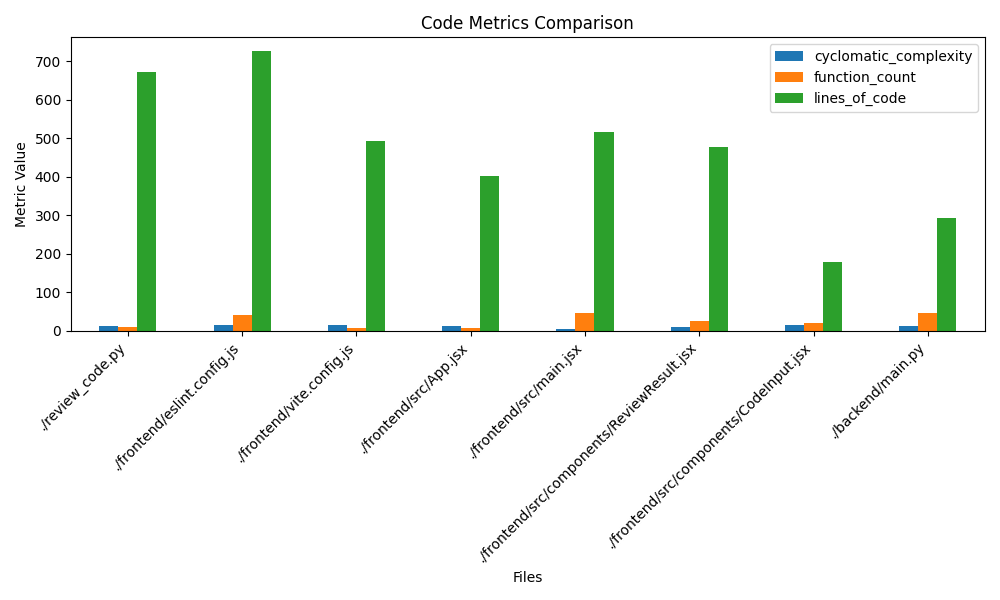
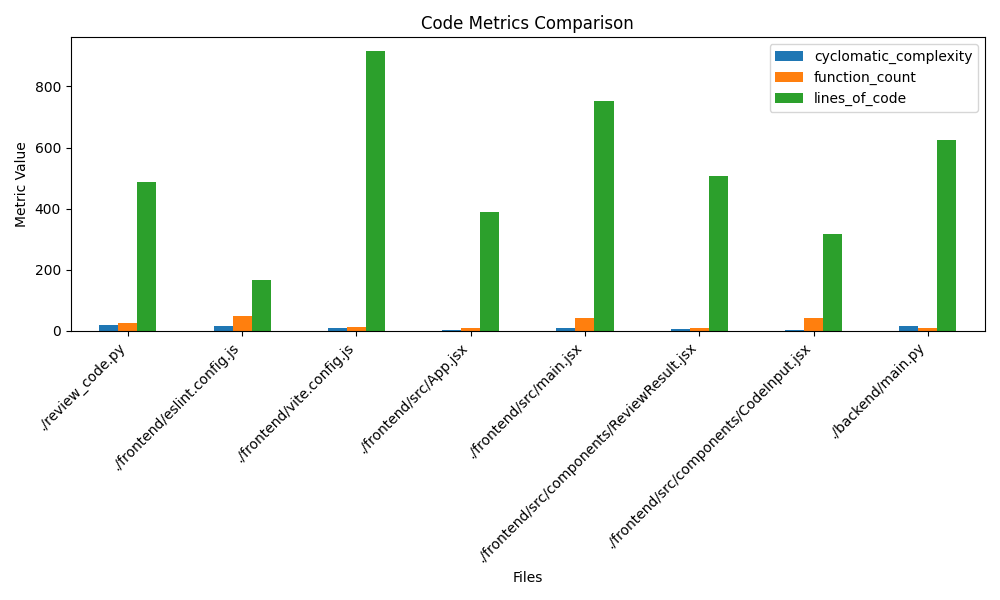
Add AI Code Review Results [skip ci]

diff --git a/README.md b/README.md
@@ -1,0 +1,19 @@
+# <CodeSense?>
+
+## Code Metrics Overview
+
+### Visualization
+![Code Metrics](/code-reviews/visualizations/code_metrics.png)
+
+### Detailed Metrics
+
+| Filename | Cyclomatic Complexity | Function Count | Lines of Code | Comment Ratio |
+|----------|----------------------|---------------|--------------|---------------|
+| ./review_code.py | 19 | 26 | 486 | 0.39 |
+| ./frontend/eslint.config.js | 16 | 48 | 165 | 0.26 |
+| ./frontend/vite.config.js | 9 | 12 | 915 | 0.21 |
+| ./frontend/src/App.jsx | 2 | 10 | 388 | 0.24 |
+| ./frontend/src/main.jsx | 9 | 41 | 753 | 0.46 |
+| ./frontend/src/components/ReviewResult.jsx | 7 | 10 | 507 | 0.19 |
+| ./frontend/src/components/CodeInput.jsx | 2 | 41 | 318 | 0.33 |
+| ./backend/main.py | 17 | 8 | 625 | 0.4 |
